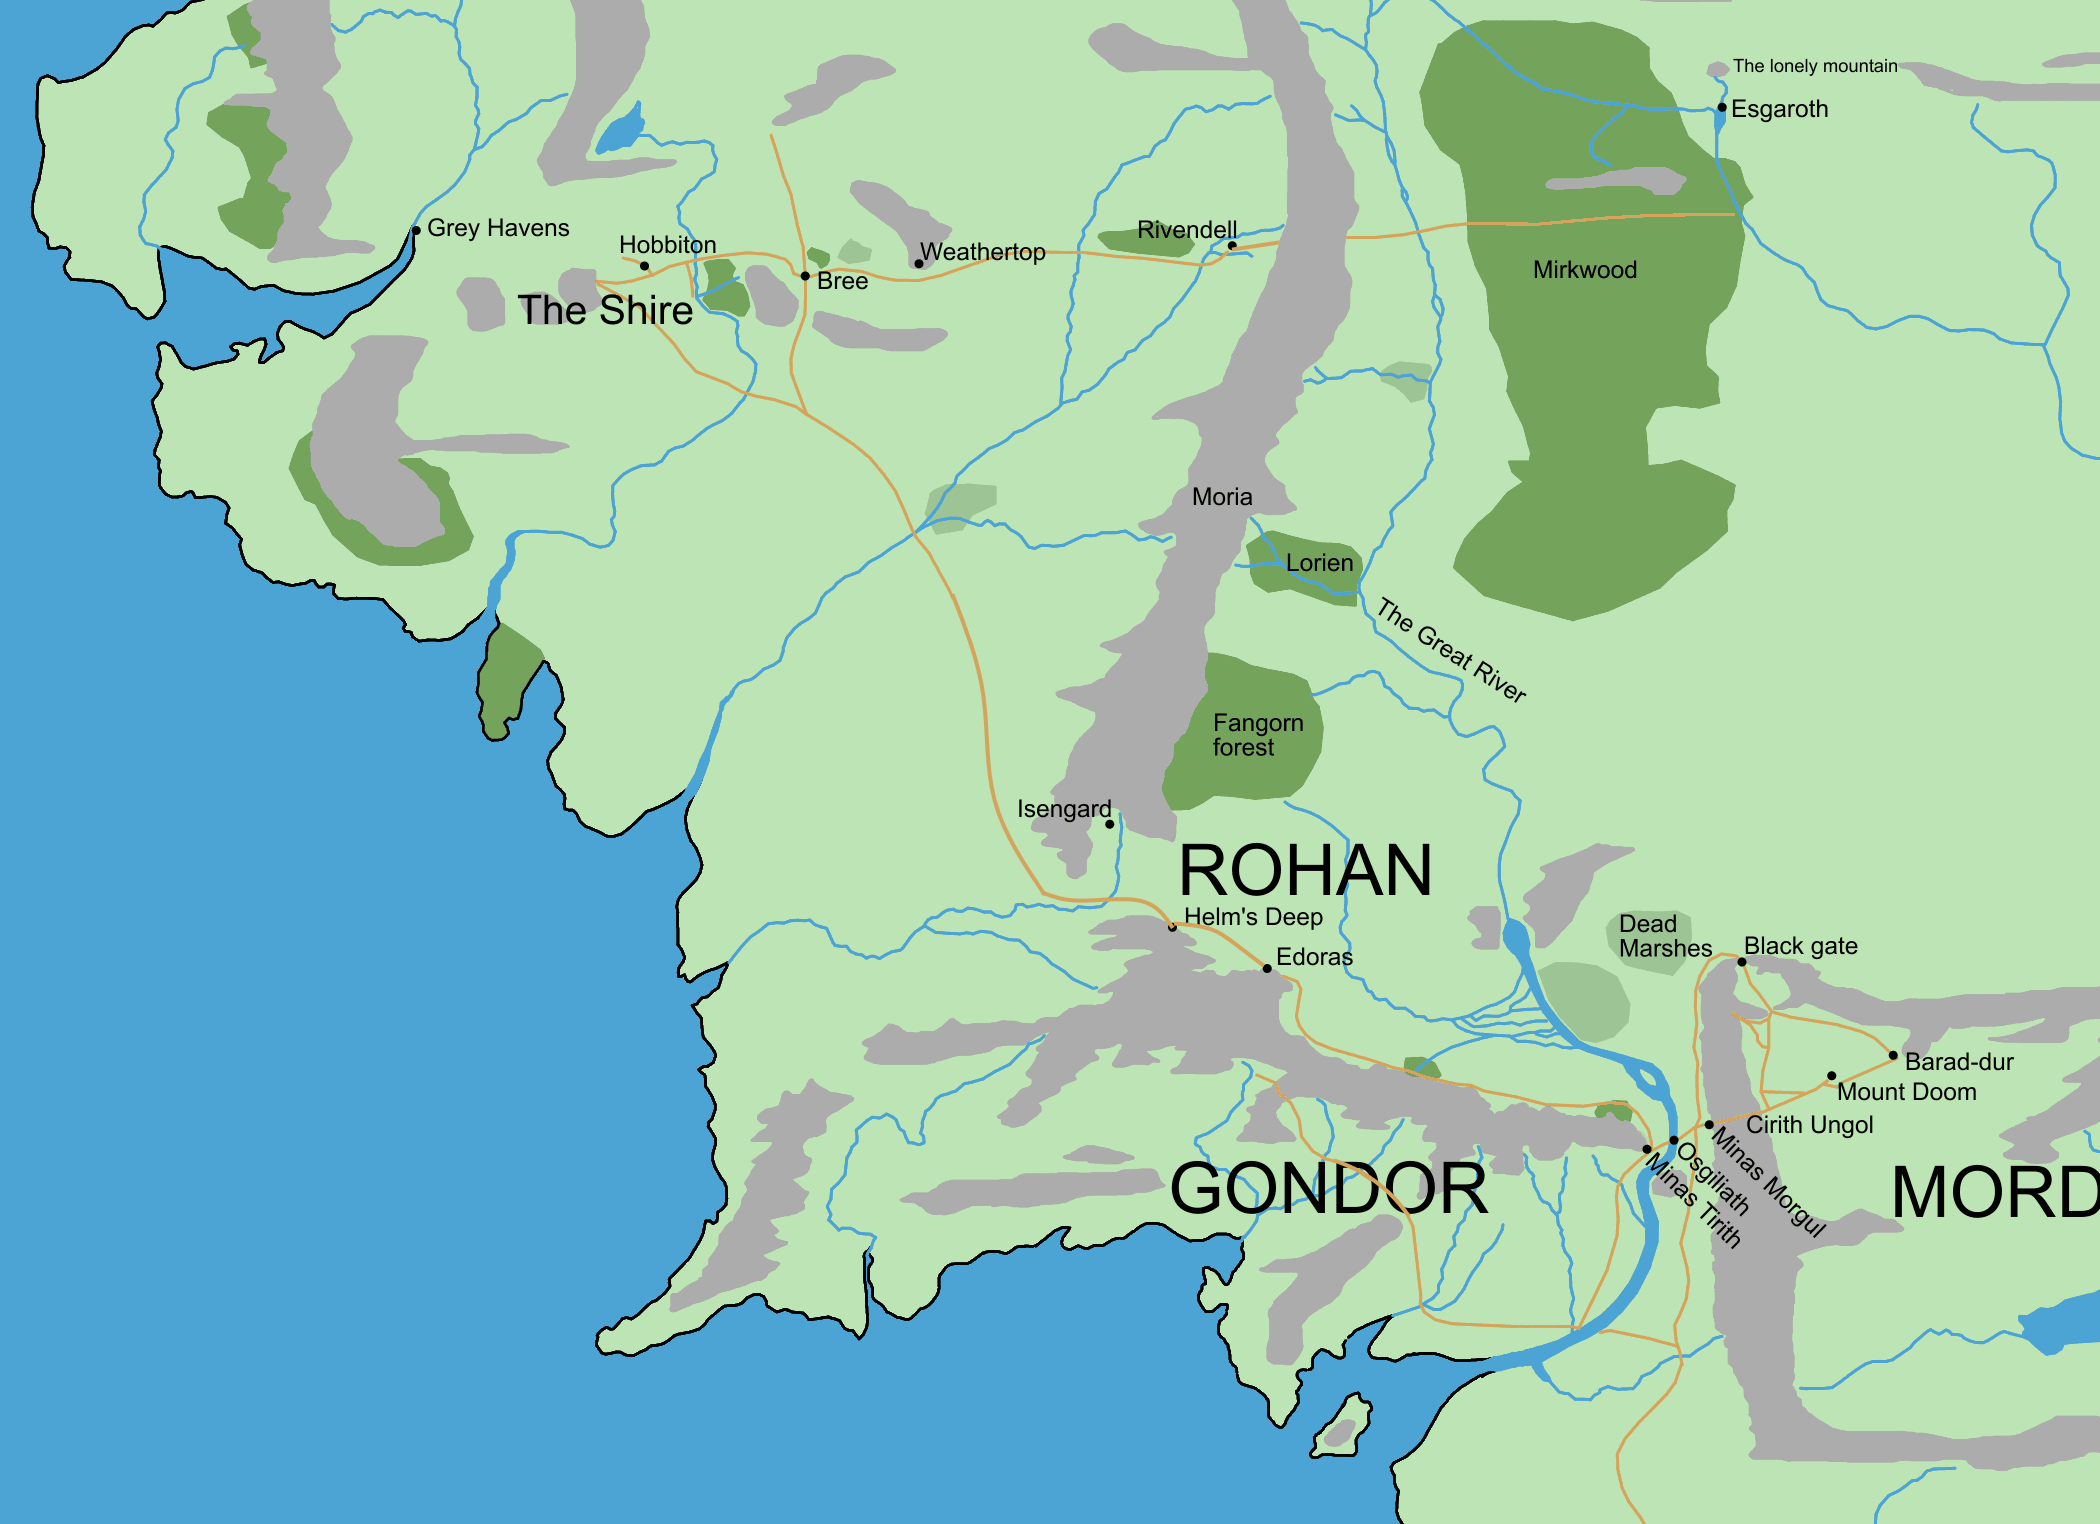
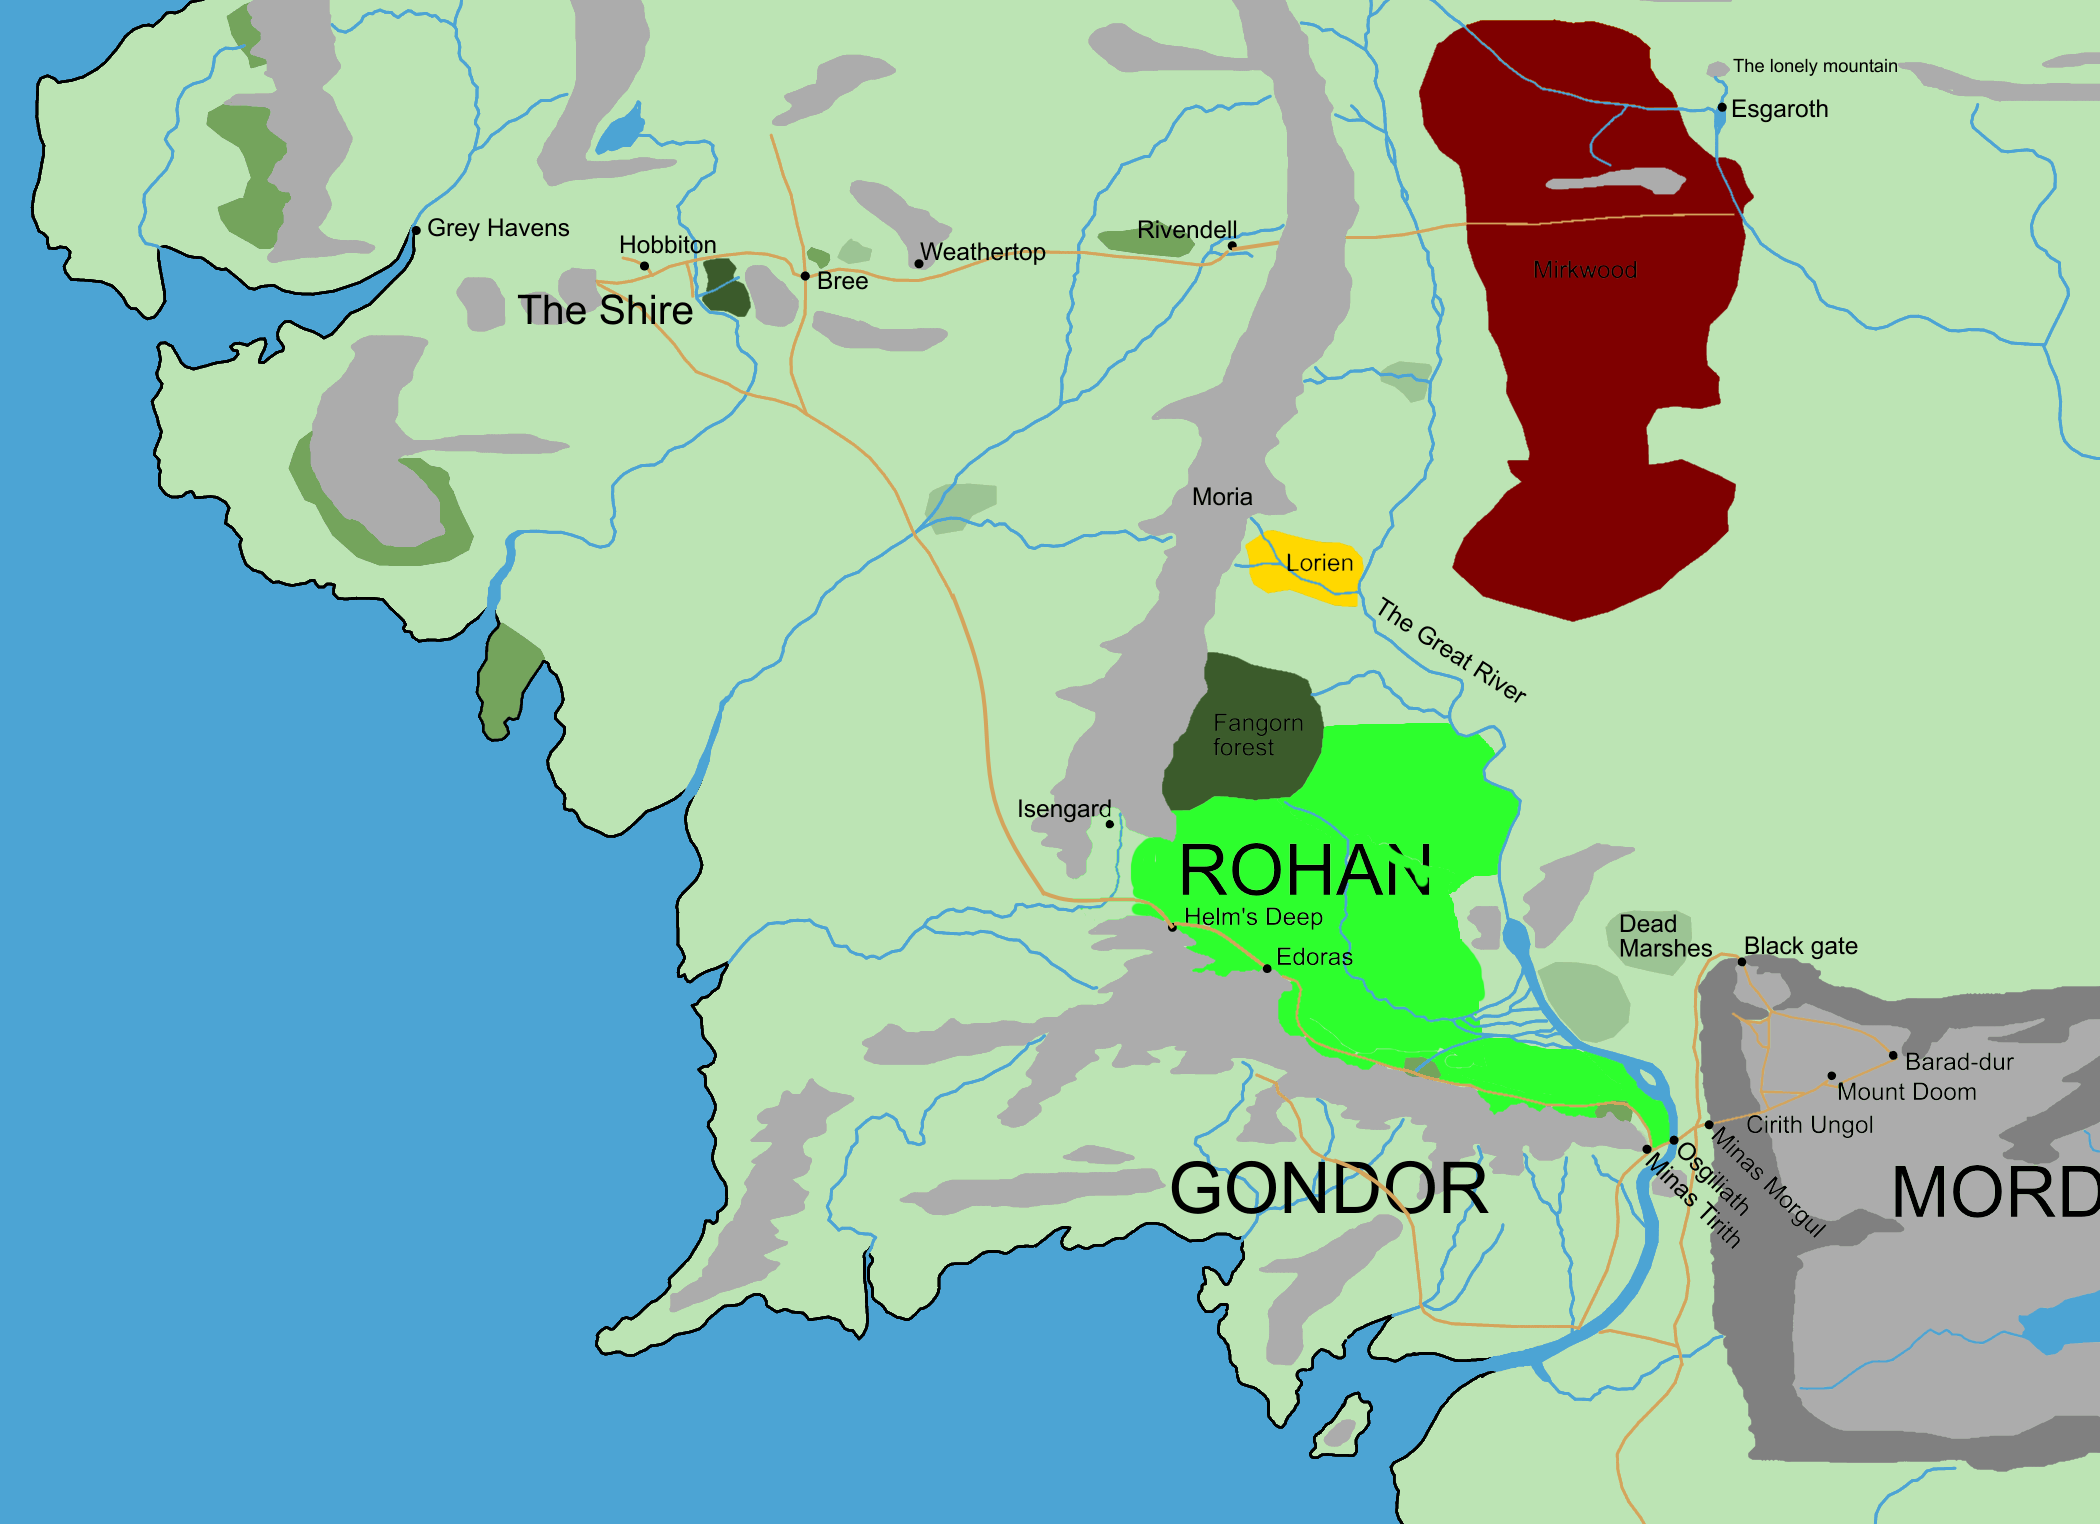
Added more types of land

diff --git a/BrickMapMaker/MapConfig.cs b/BrickMapMaker/MapConfig.cs
@@ -18,7 +18,19 @@ namespace BrickMapMaker
 
     public enum SquareTypes
     {
-        Mountain, Forest, Marsh, Water, Land, Sea, Road, Ignore
+        Mountain, 
+        Forest, 
+        Marsh, 
+        Water, 
+        Land, 
+        Sea, 
+        Road, 
+        Ignore,
+        DarkForest,
+        OldForest,
+        YellowForest,
+        GrassLand,
+        DarkMountain,
     }
 
     public class MapConfig
@@ -34,10 +46,31 @@ namespace BrickMapMaker
             {
                 new SquareConfiguration()
                 {
+                    Type = SquareTypes.DarkForest,
+                    InputColor = Color.FromArgb(127, 0, 0),
+                    OutputColor = Color.FromArgb(114, 0, 18), // Dark Red, 141
+                    MaterialId = 154,
+                },
+                new SquareConfiguration()
+                {
+                    Type = SquareTypes.DarkMountain,
+                    InputColor = Color.FromArgb(128, 128, 128),
+                    OutputColor = Color.FromArgb(126, 156, 149), // Dark Gray, 199
+                    MaterialId = 199,
+                },
+                new SquareConfiguration()
+                {
                     Type = SquareTypes.Forest,
                     InputColor = Color.FromArgb(116, 164, 92),
                     OutputColor = Color.FromArgb(0, 69, 26), // DarkGreen, 141
                     MaterialId = 141, 
+                },
+                new SquareConfiguration()
+                {
+                    Type = SquareTypes.GrassLand,
+                    InputColor = Color.FromArgb(45, 255, 45),
+                    OutputColor = Color.FromArgb(88, 171, 65), // Bright Green
+                    MaterialId = 37,
                 },
                 new SquareConfiguration()
                 {
@@ -62,6 +95,13 @@ namespace BrickMapMaker
                 },
                 new SquareConfiguration()
                 {
+                    Type = SquareTypes.OldForest,
+                    InputColor = Color.FromArgb(59, 91, 43),
+                    OutputColor = Color.FromArgb(135, 128, 76), // Olive Green, 330
+                    MaterialId = 330,
+                },
+                new SquareConfiguration()
+                {
                     Type = SquareTypes.Road,
                     InputColor = Color.FromArgb(212, 164, 92),
                     OutputColor = Color.FromArgb(160, 140, 114), // DarkTan, 138
@@ -72,13 +112,20 @@ namespace BrickMapMaker
                     Type = SquareTypes.Sea,
                     OutputColor = Color.FromArgb(25, 50, 90), // DarkBlue, 140
                     MaterialId = 140, 
-        },
+                },
                 new SquareConfiguration()
                 {
                     Type = SquareTypes.Water,
                     InputColor = Color.FromArgb(76, 164, 212),
                     OutputColor = Color.FromArgb(0, 85, 191), // Blue, 23
                     MaterialId = 23,
+                },
+                new SquareConfiguration()
+                {
+                    Type = SquareTypes.YellowForest,
+                    InputColor = Color.FromArgb(255, 216, 0),
+                    OutputColor = Color.FromArgb(252, 172, 0), // Flame Yellowing Orange, 191
+                    MaterialId = 191,
                 },
             };
 
@@ -98,30 +145,23 @@ namespace BrickMapMaker
 
         public static SquareTypes CalculateSquareType(IList<SquareConfiguration> square_configs)
         {
-            int forest_count = square_configs.First(x => x.Type == SquareTypes.Forest).Count;
-            int land_count = square_configs.First(x => x.Type == SquareTypes.Land).Count;
-            int marsh_count = square_configs.First(x => x.Type == SquareTypes.Marsh).Count;
-            int mountain_count = square_configs.First(x => x.Type == SquareTypes.Mountain).Count;
+            if (!square_configs.Any(x => x.Count > 0))
+                return SquareTypes.Land;
+
             int road_count = square_configs.First(x => x.Type == SquareTypes.Road).Count;
             int water_count = square_configs.First(x => x.Type == SquareTypes.Water).Count;
+            int non_water_count = square_configs.Count(x => x.Type != SquareTypes.Water && x.Count > 0);
 
-            SquareTypes square_type = SquareTypes.Land;
+            if (non_water_count == 0 && water_count > 0)
+                return SquareTypes.Sea;
 
-            if (forest_count == 0 && land_count == 0 && marsh_count == 0
-                                && mountain_count == 0 && road_count == 0 && water_count > 0)
-                square_type = SquareTypes.Sea;
-            else if (road_count > 0)
-                square_type = SquareTypes.Road;
+            if (road_count > 0)
+                return SquareTypes.Road;
+            
             else if (water_count > 0)
-                square_type = SquareTypes.Water;
-            else if (mountain_count > land_count && mountain_count > forest_count
-                && mountain_count > marsh_count)
-                square_type = SquareTypes.Mountain;
-            else if (forest_count > land_count && forest_count > marsh_count)
-                square_type = SquareTypes.Forest;
-            else if (marsh_count > land_count)
-                square_type = SquareTypes.Marsh;
-            return square_type;
+                return SquareTypes.Water;
+
+            return square_configs.OrderByDescending(x => x.Count).First().Type;
         }
     }
 

diff --git a/Tests/MapConfigTests.cs b/Tests/MapConfigTests.cs
@@ -25,5 +25,53 @@ namespace Tests
 
             Assert.That(MapConfig.CalculateSquareType(square_configs), Is.EqualTo(SquareTypes.Land));
         }
+
+        [Test]
+        public void IfOnlyWaterCalculateSquareTypeToSea()
+        {
+            var square_configs = MapConfig.GetSquareConfigurations();
+
+            square_configs.First(x => x.Type == SquareTypes.Forest).Count = 0;
+            square_configs.First(x => x.Type == SquareTypes.Land).Count = 0;
+            square_configs.First(x => x.Type == SquareTypes.Marsh).Count = 0;
+            square_configs.First(x => x.Type == SquareTypes.Mountain).Count = 0;
+            square_configs.First(x => x.Type == SquareTypes.Road).Count = 0;
+            square_configs.First(x => x.Type == SquareTypes.Water).Count = 20;
+
+            Assert.That(MapConfig.CalculateSquareType(square_configs), Is.EqualTo(SquareTypes.Sea));
+
+            square_configs.First(x => x.Type == SquareTypes.Forest).Count = 0;
+            square_configs.First(x => x.Type == SquareTypes.Land).Count = 0;
+            square_configs.First(x => x.Type == SquareTypes.Marsh).Count = 0;
+            square_configs.First(x => x.Type == SquareTypes.Mountain).Count = 0;
+            square_configs.First(x => x.Type == SquareTypes.Road).Count = 0;
+            square_configs.First(x => x.Type == SquareTypes.DarkForest).Count = 10;
+            square_configs.First(x => x.Type == SquareTypes.Water).Count = 20;
+
+            Assert.That(MapConfig.CalculateSquareType(square_configs), Is.EqualTo(SquareTypes.Water));
+        }
+
+        [Test]
+        public void CalculateSquareTypeWillReturnTypeWithHighestCount()
+        {
+            var square_configs = MapConfig.GetSquareConfigurations();
+
+            square_configs.First(x => x.Type == SquareTypes.Forest).Count = 5;
+            square_configs.First(x => x.Type == SquareTypes.Land).Count = 11;
+            square_configs.First(x => x.Type == SquareTypes.Marsh).Count = 10;
+            square_configs.First(x => x.Type == SquareTypes.Mountain).Count = 100;
+            square_configs.First(x => x.Type == SquareTypes.Road).Count = 0; // Must be zero
+            square_configs.First(x => x.Type == SquareTypes.Water).Count = 0; // Must be zero
+
+            Assert.That(MapConfig.CalculateSquareType(square_configs), Is.EqualTo(SquareTypes.Mountain));
+
+            square_configs.First(x => x.Type == SquareTypes.Land).Count = 110;
+
+            Assert.That(MapConfig.CalculateSquareType(square_configs), Is.EqualTo(SquareTypes.Land));
+
+            square_configs.First(x => x.Type == SquareTypes.Forest).Count = 500;
+
+            Assert.That(MapConfig.CalculateSquareType(square_configs), Is.EqualTo(SquareTypes.Forest));
+        }
     }
 }
